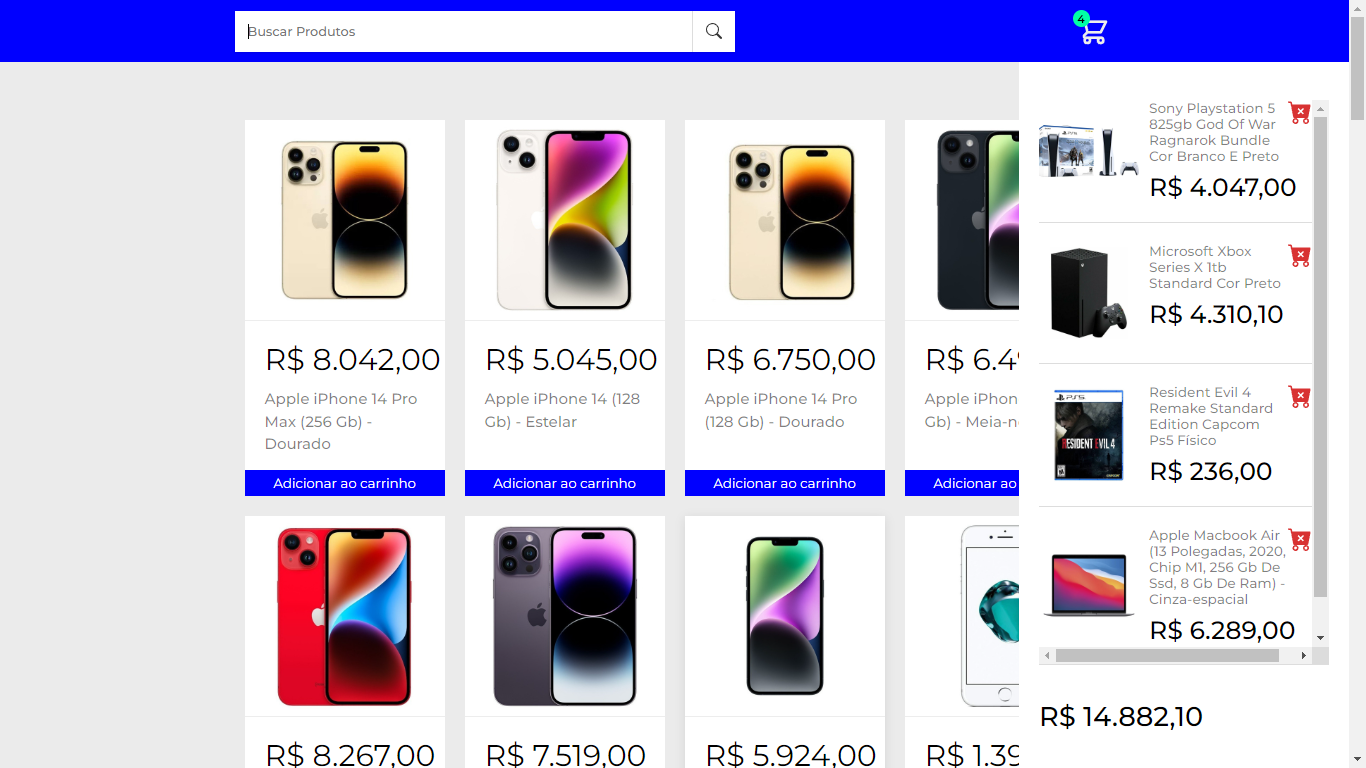
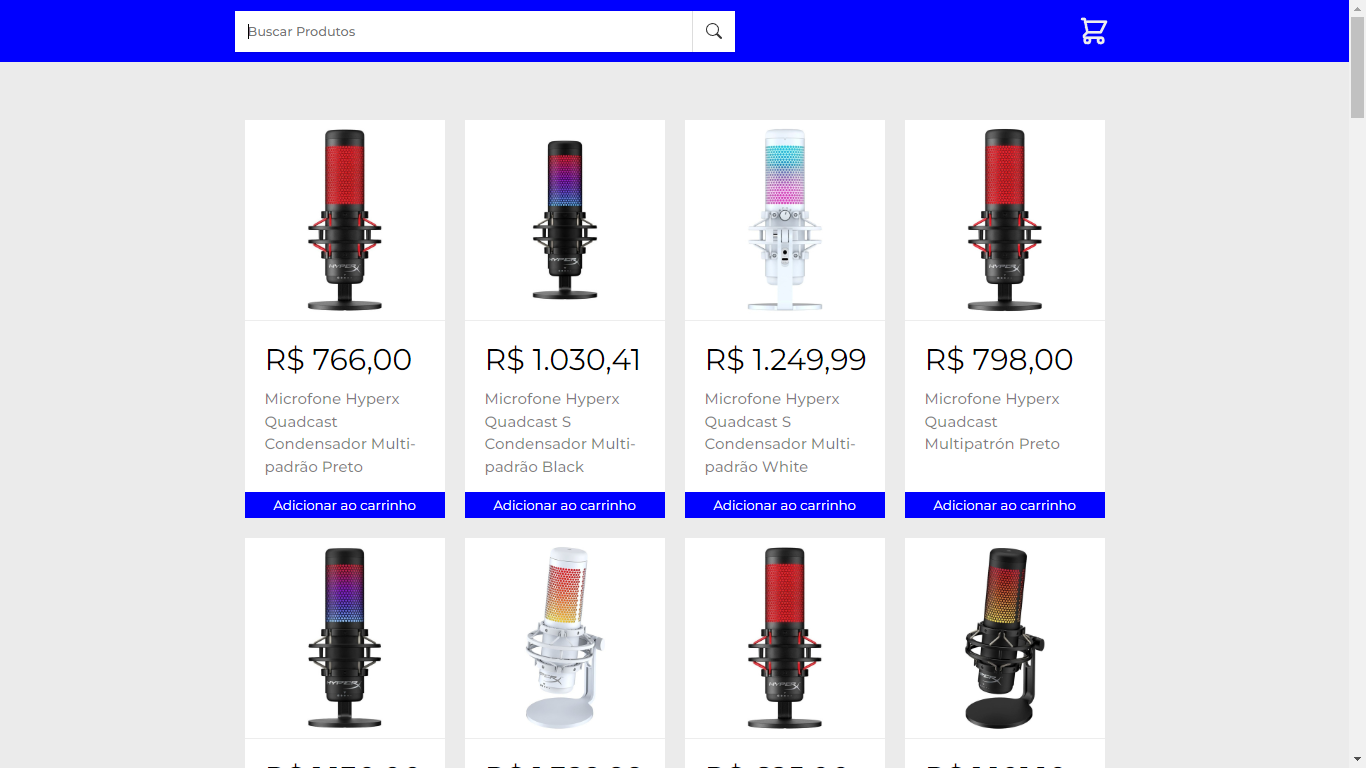
update: Versão final do README

diff --git a/README.md b/README.md
@@ -2,7 +2,13 @@
 
 <h2 align="center">Versão Desktop</h2>
 
+  <h3 align="center">Resultado da pesquisa</h3>
+
   <img alt="Preview" src=".github/preview.png" width="100%">
+
+  <h3 align="center">Carrinho de compras aberto</h3>
+  
+  <img alt="Preview" src=".github/preview-2.png" width="100%">
 
 #
 
